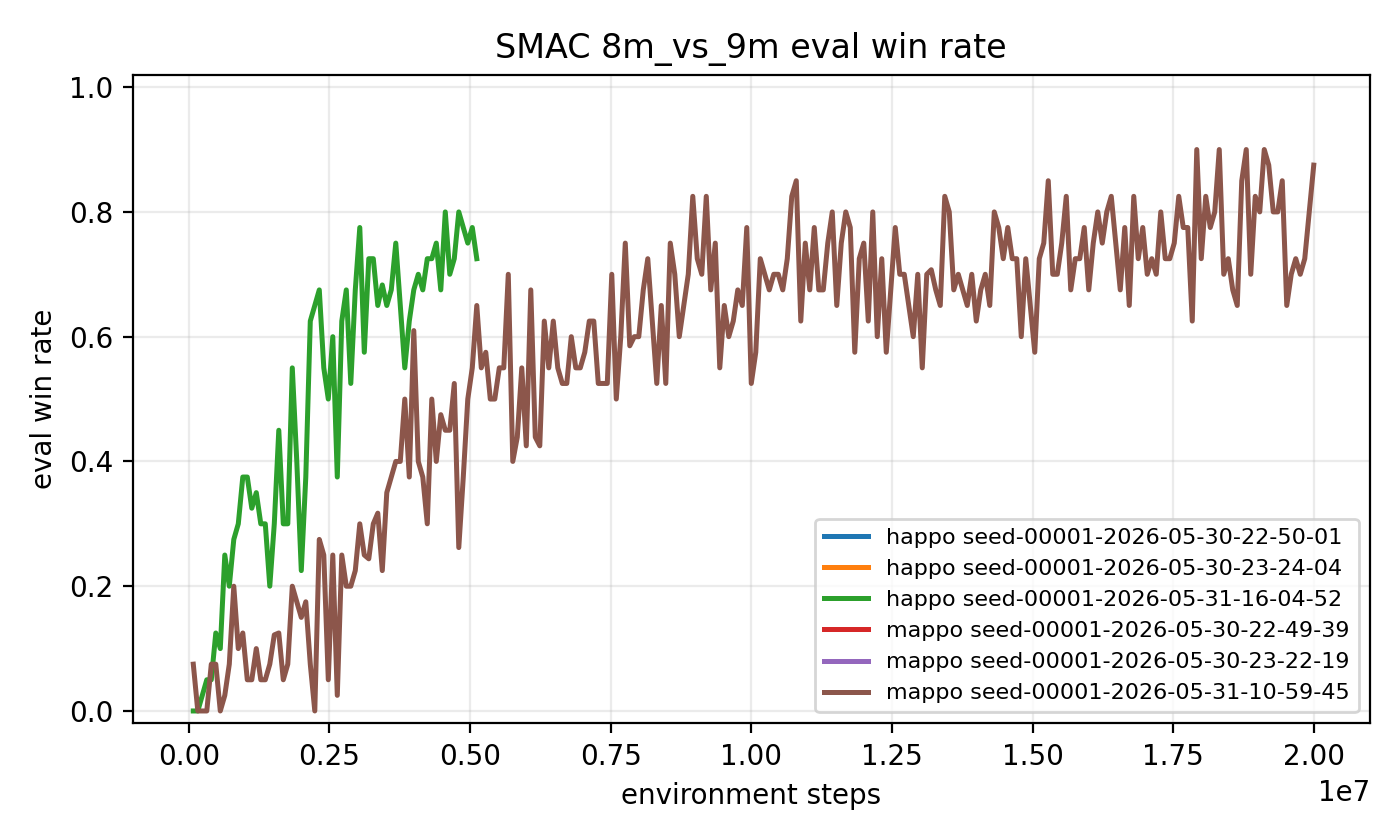
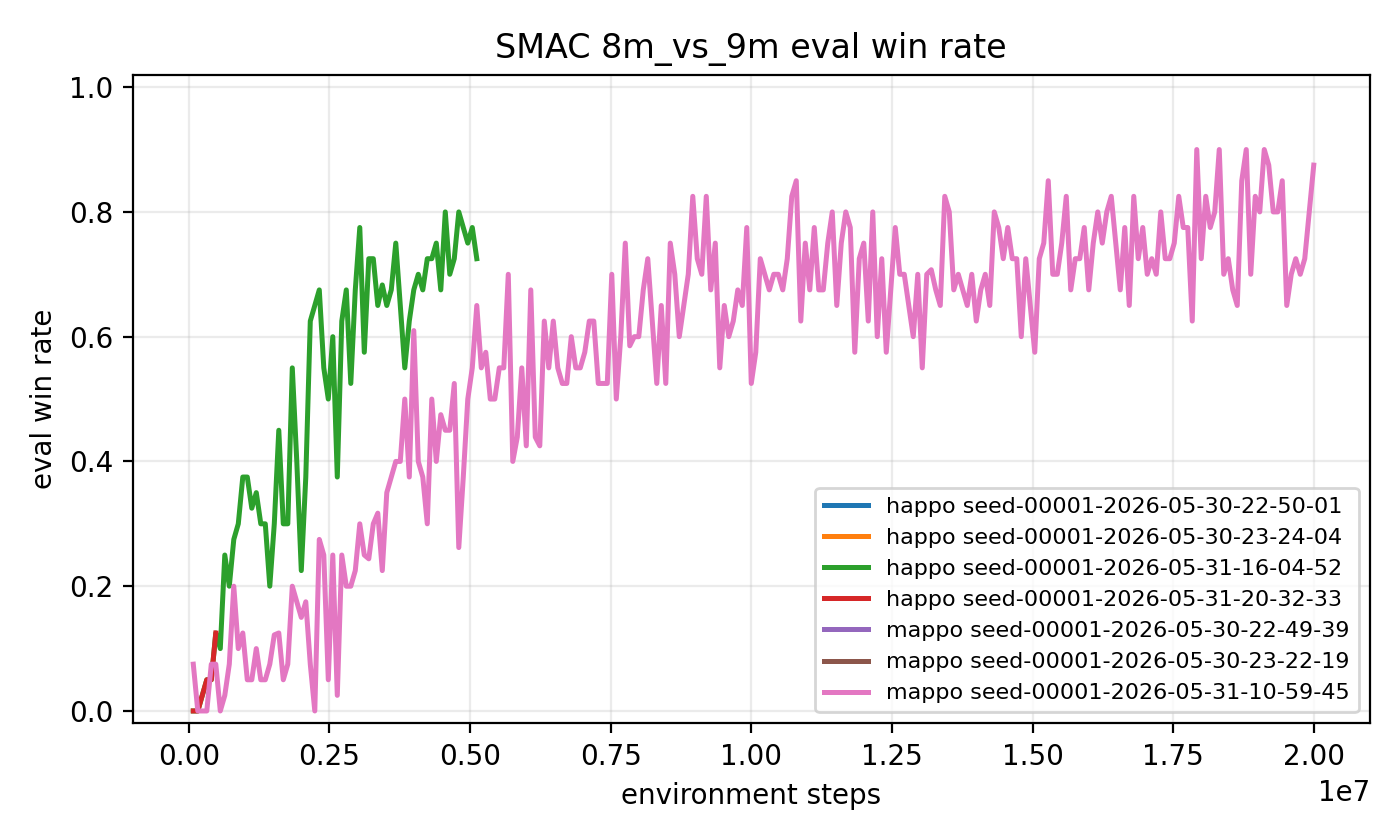
data: sync 8m happo recovery checkpoint

Changed region(s): [[0.1229, 0.1857, 0.9521, 0.8667], [0.5836, 0.5571, 0.9829, 0.7119], [0.5836, 0.7119, 0.6143, 0.8357]]

diff --git a/report/report.html b/report/report.html
@@ -98,7 +98,7 @@
 
   <div class="abstract">
     <strong>摘要：</strong>
-    本文基于 HARL 代码库和 SMAC 环境，复现 MAPPO 与 HAPPO 在 <code>3s5z</code> 和 <code>8m_vs_9m</code> 两个地图上的训练流程。当前工作已经完成环境安装、代码定位、四组 smoke test、四组 10000-step pilot、<code>progress.txt</code> 汇总和 win rate 绘图；单 seed 正式训练已完成 <code>3s5z</code> 上 MAPPO/HAPPO 与 <code>8m_vs_9m</code> 上 MAPPO 的 20000000-step 运行，<code>8m_vs_9m</code> HAPPO full run latest synced checkpoint 为 5120000 steps。由于完整实验矩阵仍在运行，本文现阶段报告重点是复现流程、代码对应关系、已完成 full 结果和阶段性验证结果。
+    本文基于 HARL 代码库和 SMAC 环境，复现 MAPPO 与 HAPPO 在 <code>3s5z</code> 和 <code>8m_vs_9m</code> 两个地图上的训练流程。当前工作已经完成环境安装、代码定位、四组 smoke test、四组 10000-step pilot、<code>progress.txt</code> 汇总和 win rate 绘图；单 seed 正式训练已完成 <code>3s5z</code> 上 MAPPO/HAPPO 与 <code>8m_vs_9m</code> 上 MAPPO 的 20000000-step 运行，<code>8m_vs_9m</code> HAPPO 原始 full run latest synced checkpoint 为 5120000 steps，recovery run 已同步到 480000 steps。由于完整实验矩阵仍在运行，本文现阶段报告重点是复现流程、代码对应关系、已完成 full 结果和阶段性验证结果。
   </div>
 
   <div class="columns">
@@ -154,7 +154,7 @@
     </table>
 
     <h2>7. 结果与分析</h2>
-    <p>目前已完成四组 1000 environment steps 的 smoke test，用于验证环境、训练脚本、日志收集和绘图流程。随后又完成了四组 10000-step pilot run，覆盖 MAPPO/HAPPO 与 <code>3s5z</code>/<code>8m_vs_9m</code> 的完整实验矩阵。2026-05-31 已在 tmux 中启动单 seed full tuned config；当前已同步 <code>3s5z</code> MAPPO/HAPPO 与 <code>8m_vs_9m</code> MAPPO 的完整 20000000-step 结果，<code>8m_vs_9m</code> HAPPO full run latest synced checkpoint 为 5120000 steps。由于最后一组 <code>8m_vs_9m</code> HAPPO full run 尚未完成，这些结果仍不能代表完整实验矩阵的最终结论。</p>
+    <p>目前已完成四组 1000 environment steps 的 smoke test，用于验证环境、训练脚本、日志收集和绘图流程。随后又完成了四组 10000-step pilot run，覆盖 MAPPO/HAPPO 与 <code>3s5z</code>/<code>8m_vs_9m</code> 的完整实验矩阵。2026-05-31 已在 tmux 中启动单 seed full tuned config；当前已同步 <code>3s5z</code> MAPPO/HAPPO 与 <code>8m_vs_9m</code> MAPPO 的完整 20000000-step 结果，<code>8m_vs_9m</code> HAPPO 原始 full run latest synced checkpoint 为 5120000 steps；因原始 run 长时间无新 progress 行，已另启 recovery run 并同步到 480000 steps。由于最后一组 <code>8m_vs_9m</code> HAPPO full run 尚未完成，这些结果仍不能代表完整实验矩阵的最终结论。</p>
     <table>
       <caption>Pilot run 最后一次 evaluation 结果</caption>
       <thead>
@@ -177,6 +177,7 @@
         <tr><td><code>3s5z</code></td><td>HAPPO</td><td>20000000</td><td>19.3452 / 0.875</td><td>1.0</td></tr>
         <tr><td><code>8m_vs_9m</code></td><td>MAPPO</td><td>20000000</td><td>18.9216 / 0.875</td><td>0.9</td></tr>
         <tr><td><code>8m_vs_9m</code></td><td>HAPPO</td><td>5120000</td><td>17.9525 / 0.725</td><td>0.8</td></tr>
+        <tr><td><code>8m_vs_9m</code></td><td>HAPPO recovery</td><td>480000</td><td>12.1561 / 0.125</td><td>0.125</td></tr>
       </tbody>
     </table>
     <figure>
@@ -187,10 +188,10 @@
       <img src="../figures/win_rate_8m_vs_9m.png" alt="8m_vs_9m win rate">
       <figcaption><code>8m_vs_9m</code> smoke/pilot/full eval win rate；HAPPO full run 仍是阶段性 checkpoint。</figcaption>
     </figure>
-    <p>正式训练完成后，应使用相同脚本重新生成曲线，并重点比较 MAPPO 与 HAPPO 的收敛速度、最终胜率和训练稳定性。对于当前同步结果，主要结论是训练、评估、日志、汇总和绘图链路已经打通；四组 pilot 均能稳定运行到 10000-step 量级；<code>3s5z</code> 上 MAPPO final eval win rate 为 0.975，HAPPO final eval win rate 为 0.875，二者 best win rate 都达到 1.0；<code>8m_vs_9m</code> 上 MAPPO 已完成 20000000 steps，final eval win rate 为 0.875，best win rate 为 0.9。HAPPO/<code>8m_vs_9m</code> 当前只同步到 5120000 steps，final eval win rate 为 0.725，best win rate 为 0.8，因此还不能与 MAPPO 的完整结果做最终公平比较。</p>
+    <p>正式训练完成后，应使用相同脚本重新生成曲线，并重点比较 MAPPO 与 HAPPO 的收敛速度、最终胜率和训练稳定性。对于当前同步结果，主要结论是训练、评估、日志、汇总和绘图链路已经打通；四组 pilot 均能稳定运行到 10000-step 量级；<code>3s5z</code> 上 MAPPO final eval win rate 为 0.975，HAPPO final eval win rate 为 0.875，二者 best win rate 都达到 1.0；<code>8m_vs_9m</code> 上 MAPPO 已完成 20000000 steps，final eval win rate 为 0.875，best win rate 为 0.9。HAPPO/<code>8m_vs_9m</code> 原始 run 当前只同步到 5120000 steps，final eval win rate 为 0.725，best win rate 为 0.8；recovery run 仍处于早期 480000 steps，因此还不能与 MAPPO 的完整结果做最终公平比较。</p>
 
     <h2>8. 局限性</h2>
-    <p>当前结果的主要局限是完整矩阵尚未训练结束。SMAC 任务需要大量交互样本才能学习到稳定微操策略，尤其是 <code>8m_vs_9m</code> 这种非对称地图。当前 <code>8m_vs_9m</code> MAPPO 已完成 full run，但 HAPPO 仍只有 5120000-step early full checkpoint；这说明最后一组训练还未产出可比较的最终结果，而不是说明 HAPPO 在该地图上无效。正式报告中应继续补充 <code>8m_vs_9m</code> HAPPO 的完整 full 曲线。</p>
+    <p>当前结果的主要局限是完整矩阵尚未训练结束。SMAC 任务需要大量交互样本才能学习到稳定微操策略，尤其是 <code>8m_vs_9m</code> 这种非对称地图。当前 <code>8m_vs_9m</code> MAPPO 已完成 full run，但 HAPPO 原始 run 仍只有 5120000-step early full checkpoint，recovery run 也只同步到 480000 steps；这说明最后一组训练还未产出可比较的最终结果，而不是说明 HAPPO 在该地图上无效。正式报告中应继续补充 <code>8m_vs_9m</code> HAPPO 的完整 full 曲线。</p>
 
     <h2>9. 结论</h2>
     <p>当前阶段已经完成环境配置、代码阅读定位、四组 smoke test、四组 10000-step pilot run、单 seed 正式训练启动、三组完整 full run 结果同步和自动绘图。后续正式训练完成后，应把 <code>8m_vs_9m</code> HAPPO 的阶段性曲线替换为完整训练曲线，并基于 win rate 的收敛速度、最终胜率和波动情况讨论 MAPPO 与 HAPPO 的差异。</p>

diff --git a/report/main.tex b/report/main.tex
@@ -26,7 +26,7 @@
 ]
 
 \begin{abstract}
-本文基于 HARL 代码库和 SMAC 环境，复现 MAPPO 与 HAPPO 在 \texttt{3s5z} 和 \texttt{8m\_vs\_9m} 两个地图上的训练流程。当前工作已经完成环境安装、代码定位、四组 smoke test、四组 10000-step pilot、\texttt{progress.txt} 汇总和 win rate 绘图；单 seed 正式训练已完成 \texttt{3s5z} 上 MAPPO/HAPPO 与 \texttt{8m\_vs\_9m} 上 MAPPO 的 20000000-step 运行，\texttt{8m\_vs\_9m} HAPPO full run latest synced checkpoint 为 5120000 steps。由于完整实验矩阵仍在运行，本文现阶段报告重点是复现流程、代码对应关系、已完成 full 结果和阶段性验证结果。
+本文基于 HARL 代码库和 SMAC 环境，复现 MAPPO 与 HAPPO 在 \texttt{3s5z} 和 \texttt{8m\_vs\_9m} 两个地图上的训练流程。当前工作已经完成环境安装、代码定位、四组 smoke test、四组 10000-step pilot、\texttt{progress.txt} 汇总和 win rate 绘图；单 seed 正式训练已完成 \texttt{3s5z} 上 MAPPO/HAPPO 与 \texttt{8m\_vs\_9m} 上 MAPPO 的 20000000-step 运行，\texttt{8m\_vs\_9m} HAPPO 原始 full run latest synced checkpoint 为 5120000 steps，recovery run 已同步到 480000 steps。由于完整实验矩阵仍在运行，本文现阶段报告重点是复现流程、代码对应关系、已完成 full 结果和阶段性验证结果。
 \end{abstract}
 
 \section{引言}
@@ -100,7 +100,7 @@ HAPPO & \texttt{8m\_vs\_9m} & HARL tuned config \\
 
 \section{结果与分析}
 
-目前已完成四组 1000 environment steps 的 smoke test，用于验证环境、训练脚本、日志收集和绘图流程。随后又完成了四组 10000-step pilot run，覆盖 MAPPO/HAPPO 与 \texttt{3s5z}/\texttt{8m\_vs\_9m} 的完整实验矩阵。2026-05-31 已在 tmux 中启动单 seed full tuned config；当前已同步 \texttt{3s5z} MAPPO/HAPPO 与 \texttt{8m\_vs\_9m} MAPPO 的完整 20000000-step 结果，\texttt{8m\_vs\_9m} HAPPO full run latest synced checkpoint 为 5120000 steps。由于最后一组 \texttt{8m\_vs\_9m} HAPPO full run 尚未完成，这些结果仍不能代表完整实验矩阵的最终结论。
+目前已完成四组 1000 environment steps 的 smoke test，用于验证环境、训练脚本、日志收集和绘图流程。随后又完成了四组 10000-step pilot run，覆盖 MAPPO/HAPPO 与 \texttt{3s5z}/\texttt{8m\_vs\_9m} 的完整实验矩阵。2026-05-31 已在 tmux 中启动单 seed full tuned config；当前已同步 \texttt{3s5z} MAPPO/HAPPO 与 \texttt{8m\_vs\_9m} MAPPO 的完整 20000000-step 结果，\texttt{8m\_vs\_9m} HAPPO 原始 full run latest synced checkpoint 为 5120000 steps；因原始 run 长时间无新 progress 行，已另启 recovery run 并同步到 480000 steps。由于最后一组 \texttt{8m\_vs\_9m} HAPPO full run 尚未完成，这些结果仍不能代表完整实验矩阵的最终结论。
 
 \begin{table}[h]
 \centering
@@ -128,6 +128,7 @@ HAPPO & \texttt{8m\_vs\_9m} & HARL tuned config \\
 \texttt{3s5z} & HAPPO & 20000000 & 19.3452 / 0.875 & 1.0 \\
 \texttt{8m\_vs\_9m} & MAPPO & 20000000 & 18.9216 / 0.875 & 0.9 \\
 \texttt{8m\_vs\_9m} & HAPPO & 5120000 & 17.9525 / 0.725 & 0.8 \\
+\texttt{8m\_vs\_9m} & HAPPO recovery & 480000 & 12.1561 / 0.125 & 0.125 \\
 \bottomrule
 \end{tabular}
 \end{table}
@@ -144,11 +145,11 @@ HAPPO & \texttt{8m\_vs\_9m} & HARL tuned config \\
 \caption{\texttt{8m\_vs\_9m} smoke/pilot/full eval win rate；HAPPO full run 仍是阶段性 checkpoint。}
 \end{figure}
 
-正式训练完成后，应使用相同脚本重新生成曲线，并重点比较 MAPPO 与 HAPPO 的收敛速度、最终胜率和训练稳定性。对于当前同步结果，主要结论是：训练、评估、日志、汇总和绘图链路已经打通；四组 pilot 均能稳定运行到 10000-step 量级；\texttt{3s5z} 上 MAPPO final eval win rate 为 0.975，HAPPO final eval win rate 为 0.875，二者 best win rate 都达到 1.0；\texttt{8m\_vs\_9m} 上 MAPPO 已完成 20000000 steps，final eval win rate 为 0.875，best win rate 为 0.9。HAPPO/\texttt{8m\_vs\_9m} 当前只同步到 5120000 steps，final eval win rate 为 0.725，best win rate 为 0.8，因此还不能与 MAPPO 的完整结果做最终公平比较。
+正式训练完成后，应使用相同脚本重新生成曲线，并重点比较 MAPPO 与 HAPPO 的收敛速度、最终胜率和训练稳定性。对于当前同步结果，主要结论是：训练、评估、日志、汇总和绘图链路已经打通；四组 pilot 均能稳定运行到 10000-step 量级；\texttt{3s5z} 上 MAPPO final eval win rate 为 0.975，HAPPO final eval win rate 为 0.875，二者 best win rate 都达到 1.0；\texttt{8m\_vs\_9m} 上 MAPPO 已完成 20000000 steps，final eval win rate 为 0.875，best win rate 为 0.9。HAPPO/\texttt{8m\_vs\_9m} 原始 run 当前只同步到 5120000 steps，final eval win rate 为 0.725，best win rate 为 0.8；recovery run 仍处于早期 480000 steps，因此还不能与 MAPPO 的完整结果做最终公平比较。
 
 \section{局限性}
 
-当前结果的主要局限是完整矩阵尚未训练结束。SMAC 任务需要大量交互样本才能学习到稳定微操策略，尤其是 \texttt{8m\_vs\_9m} 这种非对称地图。当前 \texttt{8m\_vs\_9m} MAPPO 已完成 full run，但 HAPPO 仍只有 5120000-step early full checkpoint；这说明最后一组训练还未产出可比较的最终结果，而不是说明 HAPPO 在该地图上无效。正式报告中应继续补充 \texttt{8m\_vs\_9m} HAPPO 的完整 full 曲线。
+当前结果的主要局限是完整矩阵尚未训练结束。SMAC 任务需要大量交互样本才能学习到稳定微操策略，尤其是 \texttt{8m\_vs\_9m} 这种非对称地图。当前 \texttt{8m\_vs\_9m} MAPPO 已完成 full run，但 HAPPO 原始 run 仍只有 5120000-step early full checkpoint，recovery run 也只同步到 480000 steps；这说明最后一组训练还未产出可比较的最终结果，而不是说明 HAPPO 在该地图上无效。正式报告中应继续补充 \texttt{8m\_vs\_9m} HAPPO 的完整 full 曲线。
 
 \section{结论}
 

diff --git a/logs/artifact_manifest.md b/logs/artifact_manifest.md
@@ -6,7 +6,7 @@ This manifest records deterministic SHA256 hashes for submitted source, report, 
 | --- | ---: | --- |
[7 lines of base64/hex data omitted]
@@ -15,12 +15,12 @@ This manifest records deterministic SHA256 hashes for submitted source, report, 
[16 lines of base64/hex data omitted]
@@ -28,19 +28,20 @@ This manifest records deterministic SHA256 hashes for submitted source, report, 
[25 lines of base64/hex data omitted]
@@ -70,6 +71,6 @@ This manifest records deterministic SHA256 hashes for submitted source, report, 
 
 ## Summary
 
-- Files: 63
-- Total bytes: 1806934
+- Files: 64
+- Total bytes: 1819689
 - Excludes generated validation and manifest files to avoid self-referential churn.

diff --git a/logs/full_training_snapshot.md b/logs/full_training_snapshot.md
@@ -1,6 +1,6 @@
 # Full Training Snapshot
 
-- Generated: 2026-05-31 20:33:49 CST
+- Generated: 2026-05-31 20:42:14 CST
 - tmux session `hw3_full_20260531_seed1`: active
 - Matching tmux sessions `hw3*`: hw3, hw3_full_20260531_seed1, hw3_recover_happo_8m
 - Source: `external/HARL/examples/results`
@@ -10,11 +10,12 @@
 
 | Map | Algo | External rows | External final step | External final win | Synced rows | Synced final step | Sync status | Run state | External age min | External modified |
 | --- | --- | ---: | ---: | ---: | ---: | ---: | --- | --- | ---: | --- |
-| `3s5z` | happo | 250 | 20000000 | 0.8750 | 250 | 20000000 | synced | complete | 574.1 | 2026-05-31 10:59:43 CST |
-| `3s5z` | mappo | 250 | 20000000 | 0.9750 | 250 | 20000000 | synced | complete | 913.8 | 2026-05-31 05:20:02 CST |
-| `8m_vs_9m` | happo | 64 | 5120000 | 0.7250 | 64 | 5120000 | synced | no recent progress | 185.1 | 2026-05-31 17:28:43 CST |
-| `8m_vs_9m` | mappo | 250 | 20000000 | 0.8750 | 250 | 20000000 | synced | complete | 269.0 | 2026-05-31 16:04:50 CST |
+| `3s5z` | happo | 250 | 20000000 | 0.8750 | 250 | 20000000 | synced | complete | 582.5 | 2026-05-31 10:59:43 CST |
+| `3s5z` | mappo | 250 | 20000000 | 0.9750 | 250 | 20000000 | synced | complete | 922.2 | 2026-05-31 05:20:02 CST |
+| `8m_vs_9m` | happo | 64 | 5120000 | 0.7250 | 64 | 5120000 | synced | no recent progress | 193.5 | 2026-05-31 17:28:43 CST |
+| `8m_vs_9m` | happo | 6 | 480000 | 0.1250 | 6 | 480000 | synced | in progress | 1.2 | 2026-05-31 20:41:04 CST |
+| `8m_vs_9m` | mappo | 250 | 20000000 | 0.8750 | 250 | 20000000 | synced | complete | 277.4 | 2026-05-31 16:04:50 CST |
 
 ## Attention
 
-- `happo` + `8m_vs_9m` is incomplete at 5120000 steps and has no new external progress for 185.1 minutes.
+- `happo` + `8m_vs_9m` is incomplete at 5120000 steps and has no new external progress for 193.5 minutes.

diff --git a/logs/experiment_notes.md b/logs/experiment_notes.md
@@ -5,7 +5,7 @@
 | 算法 | 地图 | 配置来源 | 状态 |
 | --- | --- | --- | --- |
 | HAPPO | `3s5z` | HARL tuned config | smoke test 与 10000-step pilot 通过，full 已完成 20000000 steps |
-| HAPPO | `8m_vs_9m` | HARL tuned config | smoke test 与 10000-step pilot 通过，full latest synced checkpoint 为 5120000 steps |
+| HAPPO | `8m_vs_9m` | HARL tuned config | smoke test 与 10000-step pilot 通过，原始 full latest synced checkpoint 为 5120000 steps；recovery run 已同步到 480000 steps |
 | MAPPO | `3s5z` | 基于同地图 HAPPO tuned config 生成 MAPPO 配置 | smoke test 与 10000-step pilot 通过，full 已完成 20000000 steps |
 | MAPPO | `8m_vs_9m` | 基于同地图 HAPPO tuned config 生成 MAPPO 配置 | smoke test 与 10000-step pilot 通过，full 已完成 20000000 steps |
 
@@ -80,10 +80,11 @@ SESSION=hw3_full_20260531_seed1 SEEDS=1 EXP_PREFIX=hw3_full bash scripts/launch_
 阶段性结果：
 
 - tmux 会话 `hw3_full_20260531_seed1` 仍在运行。
-- 当前已同步 `MAPPO` + `3s5z` 的 250 个 full evaluation、`HAPPO` + `3s5z` 的 250 个 full evaluation、`MAPPO` + `8m_vs_9m` 的 250 个 full evaluation，以及 `HAPPO` + `8m_vs_9m` 的 64 个 early full evaluation 到 `results/raw/full/`。
+- 当前已同步 `MAPPO` + `3s5z` 的 250 个 full evaluation、`HAPPO` + `3s5z` 的 250 个 full evaluation、`MAPPO` + `8m_vs_9m` 的 250 个 full evaluation、`HAPPO` + `8m_vs_9m` 原始 run 的 64 个 early full evaluation，以及 `HAPPO` + `8m_vs_9m` recovery run 的 6 个 early full evaluation 到 `results/raw/full/`。
 - `MAPPO` + `8m_vs_9m` 已到达 20000000 environment steps，final eval reward 为 18.9216，final eval win rate 为 0.875；当前最佳 reward 为 19.2201，当前最佳 win rate 为 0.9。
 - `HAPPO` + `8m_vs_9m` latest synced checkpoint 为 5120000 environment steps，final eval reward 为 17.9525，final eval win rate 为 0.725；当前最佳 reward 为 18.3971，当前最佳 win rate 为 0.8。
-- `results/processed/progress_summary.csv` 当前共有 886 行，其中 full 贡献 814 行。
+- `HAPPO` + `8m_vs_9m` recovery run 已同步到 480000 environment steps，final eval reward 为 12.1561，final eval win rate 为 0.125；该 run 仍在继续。
+- `results/processed/progress_summary.csv` 当前共有 892 行，其中 full 贡献 820 行。
 - `MAPPO` + `3s5z` 已到达 20000000 environment steps，final eval reward 为 19.8764，final eval win rate 为 0.975；当前最佳 win rate 为 1.0。
 - `HAPPO` + `3s5z` 已到达 20000000 environment steps，final eval reward 为 19.3452，final eval win rate 为 0.875；当前最佳 win rate 为 1.0。
 
@@ -99,9 +100,10 @@ SESSION=hw3_full_20260531_seed1 SEEDS=1 EXP_PREFIX=hw3_full bash scripts/launch_
 | 2026-05-31 | `SESSION=hw3_full_20260531_seed1 SEEDS=1 EXP_PREFIX=hw3_full bash scripts/launch_training_tmux.sh full` | 1 | `external/HARL/examples/results/smac/3s5z/happo/hw3_full_full_happo_3s5z/seed-00001-2026-05-31-05-20-04` | `HAPPO` + `3s5z` 已同步完整 20000000-step 结果 |
 | 2026-05-31 | `SESSION=hw3_full_20260531_seed1 SEEDS=1 EXP_PREFIX=hw3_full bash scripts/launch_training_tmux.sh full` | 1 | `external/HARL/examples/results/smac/8m_vs_9m/mappo/hw3_full_full_mappo_8m_vs_9m/seed-00001-2026-05-31-10-59-45` | `MAPPO` + `8m_vs_9m` 已同步完整 20000000-step 结果 |
 | 2026-05-31 | `SESSION=hw3_full_20260531_seed1 SEEDS=1 EXP_PREFIX=hw3_full bash scripts/launch_training_tmux.sh full` | 1 | `external/HARL/examples/results/smac/8m_vs_9m/happo/hw3_full_full_happo_8m_vs_9m/seed-00001-2026-05-31-16-04-52` | `HAPPO` + `8m_vs_9m` latest synced checkpoint 为 5120000 steps |
+| 2026-05-31 | `SESSION=hw3_recover_happo_8m SEEDS=1 MAPS=8m_vs_9m ALGOS=happo EXP_PREFIX=hw3_recover bash scripts/launch_training_tmux.sh full` | 1 | `external/HARL/examples/results/smac/8m_vs_9m/happo/hw3_recover_full_happo_8m_vs_9m/seed-00001-2026-05-31-20-32-33` | `HAPPO` + `8m_vs_9m` recovery run 已同步到 480000 steps |
 
 ## 观察模板
 
 - `3s5z`：smoke/pilot/full 曲线已生成，`MAPPO` 与 `HAPPO` 都已完成 20000000 steps。
-- `8m_vs_9m`：smoke/pilot/full 曲线已生成，`MAPPO` 已完成 20000000 steps，`HAPPO` full latest synced checkpoint 为 5120000 steps。
+- `8m_vs_9m`：smoke/pilot/full 曲线已生成，`MAPPO` 已完成 20000000 steps，`HAPPO` 原始 full latest synced checkpoint 为 5120000 steps，recovery run 已同步到 480000 steps。
 - MAPPO vs HAPPO：正式训练后比较 sample efficiency、稳定性和最终性能。

diff --git a/logs/submission_validation.md b/logs/submission_validation.md
@@ -22,12 +22,12 @@
 | `logs` | OK | directory present |
 | `results/raw/smoke` | OK | directory present |
 | `results/raw/pilot` | OK | directory present |
-| `report/main.pdf` | OK | 1008978 bytes; 3 pages |
-| `results/processed/progress_summary.csv` | OK | 886 data rows |
+| `report/main.pdf` | OK | 1014276 bytes; 3 pages |
+| `results/processed/progress_summary.csv` | OK | 892 data rows |
 | `full training matrix` | WARN | incomplete full runs: happo+8m_vs_9m 5120000/20000000 |
 | `results/raw/smoke` | OK | 4 progress.txt files; expected at least 4 |
 | `results/raw/pilot` | OK | 4 progress.txt files; expected at least 4 |
-| `results/raw/full` | OK | 4 progress.txt files; expected at least 4 |
+| `results/raw/full` | OK | 5 progress.txt files; expected at least 4 |
 | `configs/smac` | OK | 4 config.json files; expected at least 4 |
 | `report/main.tex` | WARN | student identity placeholders still present |
 | `report/report.html` | WARN | student identity placeholders still present |

diff --git a/SUBMISSION.md b/SUBMISSION.md
@@ -10,7 +10,7 @@
 - `configs/smac/`：MAPPO/HAPPO × `3s5z`/`8m_vs_9m` 的配置快照。
 - `results/raw/smoke/`：4 组 smoke test 的原始 `progress.txt`。
 - `results/raw/pilot/`：4 组 10000-step pilot 的原始 `progress.txt`。
-- `results/raw/full/`：正式训练同步进来的 `progress.txt`；当前包含 `MAPPO` + `3s5z`、`HAPPO` + `3s5z`、`MAPPO` + `8m_vs_9m` 的完整 20000000-step 结果，以及 `HAPPO` + `8m_vs_9m` 的 latest synced 5120000-step 早期 checkpoint。
+- `results/raw/full/`：正式训练同步进来的 `progress.txt`；当前包含 `MAPPO` + `3s5z`、`HAPPO` + `3s5z`、`MAPPO` + `8m_vs_9m` 的完整 20000000-step 结果，`HAPPO` + `8m_vs_9m` 原始 run 的 latest synced 5120000-step 早期 checkpoint，以及 recovery run 的 480000-step checkpoint。
 - `results/processed/progress_summary.csv`、`results/processed/progress_summary.md`：smoke test、pilot 与 full checkpoint 的汇总结果。
 - `figures/win_rate_3s5z.png`、`figures/win_rate_8m_vs_9m.png`：smoke/pilot 与 full 曲线。
 - `logs/`：作业摘要、安装记录、代码阅读笔记、实验笔记和 full training 快照。
@@ -23,7 +23,7 @@
 - 学号、姓名、邮箱：需要填入 `report/main.tex`。
 - GitHub push：`origin` 已切换为 `[email redacted]:PPYYQQ/MARL-hw3.git`；SSH 认证已通过，`main` 已同步到 `origin/main`。
 - LaTeX 编译器：当前系统没有 `xelatex` 或 `pdflatex`；PDF 已通过 Chrome HTML 导出流程生成。
-- 正式训练：当前完成 1000-step smoke test 和 4 组 10000-step pilot；单 seed full 训练已在 `hw3_full_20260531_seed1` 中运行，`MAPPO` + `3s5z`、`HAPPO` + `3s5z`、`MAPPO` + `8m_vs_9m` 均已同步完整 20000000-step 结果，`HAPPO` + `8m_vs_9m` latest synced checkpoint 为 5120000 steps。
+- 正式训练：当前完成 1000-step smoke test 和 4 组 10000-step pilot；单 seed full 训练已在 `hw3_full_20260531_seed1` 中运行，`MAPPO` + `3s5z`、`HAPPO` + `3s5z`、`MAPPO` + `8m_vs_9m` 均已同步完整 20000000-step 结果，`HAPPO` + `8m_vs_9m` 原始 run latest synced checkpoint 为 5120000 steps；recovery run `hw3_recover_happo_8m` 已同步到 480000 steps。
 
 ## GitHub 同步
 

diff --git a/PROGRESS.md b/PROGRESS.md
@@ -8,7 +8,7 @@
 - 作业文档：已解析 `hw3.pptx`，确认任务包括 MAPPO/HAPPO 阅读、HARL+SMAC 环境配置、`3s5z` 和 `8m_vs_9m` 复现实验、win rate 绘图、研究性报告。
 - GitHub 状态：本地 Git 可用；`origin` 已切换为 `[email redacted]:PPYYQQ/MARL-hw3.git`，SSH 认证通过，`main` 已同步到 `origin/main`。
 - GitHub CLI：当前未安装 `gh`；已通过 SSH remote 完成推送，不再依赖 HTTPS 交互式凭据。
-- 正式训练：已启动单 seed tmux 会话 `hw3_full_20260531_seed1`，按 `mappo/happo` × `3s5z`/`8m_vs_9m` 顺序运行 full tuned config；当前已同步 `MAPPO` + `3s5z`、`HAPPO` + `3s5z`、`MAPPO` + `8m_vs_9m` 完整 20000000-step 结果；`HAPPO` + `8m_vs_9m` 原始 full run latest synced checkpoint 为 5120000 steps。由于原始 run 长时间无新 progress 行，已另启 `hw3_recover_happo_8m` 只恢复 `HAPPO` + `8m_vs_9m`。
+- 正式训练：已启动单 seed tmux 会话 `hw3_full_20260531_seed1`，按 `mappo/happo` × `3s5z`/`8m_vs_9m` 顺序运行 full tuned config；当前已同步 `MAPPO` + `3s5z`、`HAPPO` + `3s5z`、`MAPPO` + `8m_vs_9m` 完整 20000000-step 结果；`HAPPO` + `8m_vs_9m` 原始 full run latest synced checkpoint 为 5120000 steps。由于原始 run 长时间无新 progress 行，已另启 `hw3_recover_happo_8m` 只恢复 `HAPPO` + `8m_vs_9m`，recovery run 当前已同步到 480000 steps。
 - 已知限制：完整训练依赖 StarCraft II、SMAC maps、GPU/CPU 资源和长时间运行环境。
 
 ## 提交记录
@@ -197,6 +197,7 @@
 - [x] 诊断 `HAPPO` + `8m_vs_9m` 后续 full 训练状态；截至 2026-05-31 20:23 CST，外部与仓库 progress 均停在 64 行、5120000 steps，快照脚本标记为 `no recent progress`，tmux 会话仍 active。
 - [x] 记录 `HAPPO` + `8m_vs_9m` stale run 的非破坏性恢复命令。
 - [x] 启动 `hw3_recover_happo_8m`，只恢复 `HAPPO` + `8m_vs_9m` full run。
+- [x] 同步 `HAPPO` + `8m_vs_9m` recovery run 到 480000 steps。
 - [ ] 完成正式训练或记录无法完成的资源原因。
 
 ### 5. 数据与报告

diff --git a/logs/full_training_status.md b/logs/full_training_status.md
@@ -30,6 +30,7 @@ env MAPS="3s5z 8m_vs_9m" ALGOS="mappo happo" SEEDS=1 EXP_PREFIX=hw3_full CUDA=tr
 - Latest synced checkpoint: `HAPPO` + `3s5z` completed 20000000 environment steps with final eval reward 19.3452 and final eval win rate 0.875; best synced win rate is 1.0.
 - Latest synced checkpoint: `MAPPO` + `8m_vs_9m` completed 20000000 environment steps with final eval reward 18.9216 and final eval win rate 0.875; best synced reward is 19.2201 and best synced win rate is 0.9.
 - Latest early checkpoint: `HAPPO` + `8m_vs_9m` reached 5120000 environment steps with final eval reward 17.9525 and final eval win rate 0.725; best synced reward is 18.3971 and best synced win rate is 0.8.
+- Latest recovery checkpoint: `HAPPO` + `8m_vs_9m` recovery run reached 480000 environment steps with final eval reward 12.1561 and final eval win rate 0.125; this run is still in progress and is tracked separately from the original stale run.
 - Diagnostic snapshot at 2026-05-31 20:23 CST: tmux session still active; `HAPPO` + `8m_vs_9m` external and synced progress files both have 64 rows and latest step 5120000. The generated `logs/full_training_snapshot.md` marks this run as `no recent progress` because the external `progress.txt` was last modified at 2026-05-31 17:28:43 CST, about 175 minutes before the snapshot. No new checkpoint was available to sync in this observation.
 
 ## Monitoring
@@ -60,6 +61,7 @@ After the recovery run writes `progress.txt`, rerun the normal result collection
 - tmux session: `hw3_recover_happo_8m`
 - Log file: `logs/training_sessions/hw3_recover_happo_8m.log`
 - Purpose: rerun only `HAPPO` + `8m_vs_9m` with `EXP_PREFIX=hw3_recover` because the original `hw3_full` run had no new `progress.txt` row for more than 3 hours.
+- Latest synced recovery checkpoint: 480000 environment steps, eval reward 12.1561, eval win rate 0.125.
 - Command:
 
 ```bash

diff --git a/results/processed/progress_summary.md b/results/processed/progress_summary.md
@@ -12,6 +12,7 @@ Source: `results/processed/progress_summary.csv`
 | smoke | `3s5z` | mappo | 6 | 960 | 6.4834 | 0.0000 | 6.9669 | 0.0000 |
 | full | `8m_vs_9m` | happo | 64 | 5120000 | 17.9525 | 0.7250 | 18.3971 | 0.8000 |
 | pilot | `8m_vs_9m` | happo | 12 | 9600 | 5.0072 | 0.0000 | 7.5108 | 0.0000 |
+| full | `8m_vs_9m` | happo | 6 | 480000 | 12.1561 | 0.1250 | 12.1561 | 0.1250 |
 | smoke | `8m_vs_9m` | happo | 6 | 960 | 2.2446 | 0.0000 | 2.2446 | 0.0000 |
 | full | `8m_vs_9m` | mappo | 250 | 20000000 | 18.9216 | 0.8750 | 19.2201 | 0.9000 |
 | pilot | `8m_vs_9m` | mappo | 12 | 9600 | 7.5108 | 0.0000 | 9.9856 | 0.0000 |